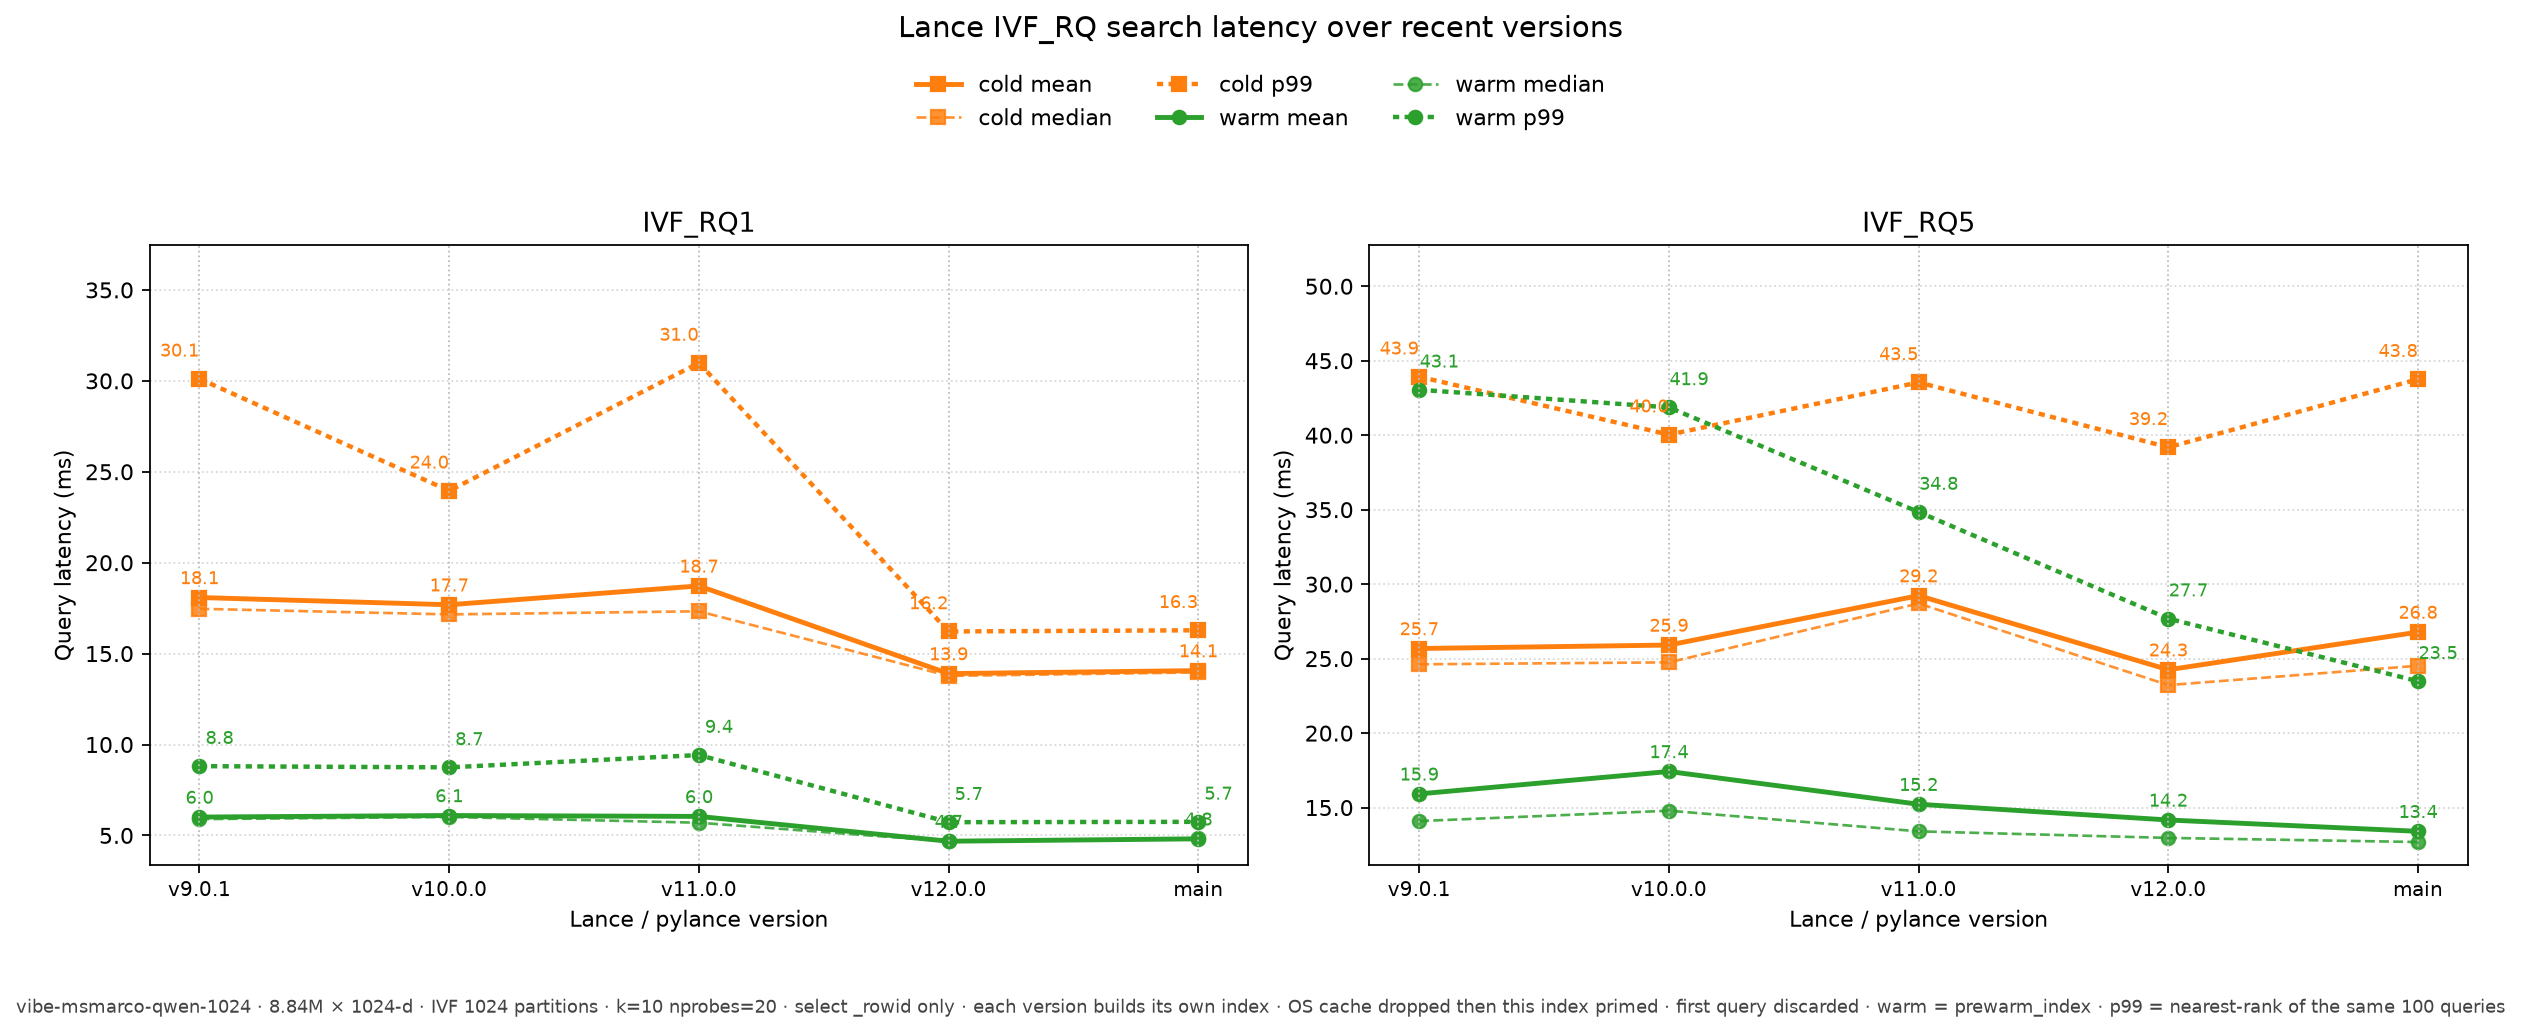
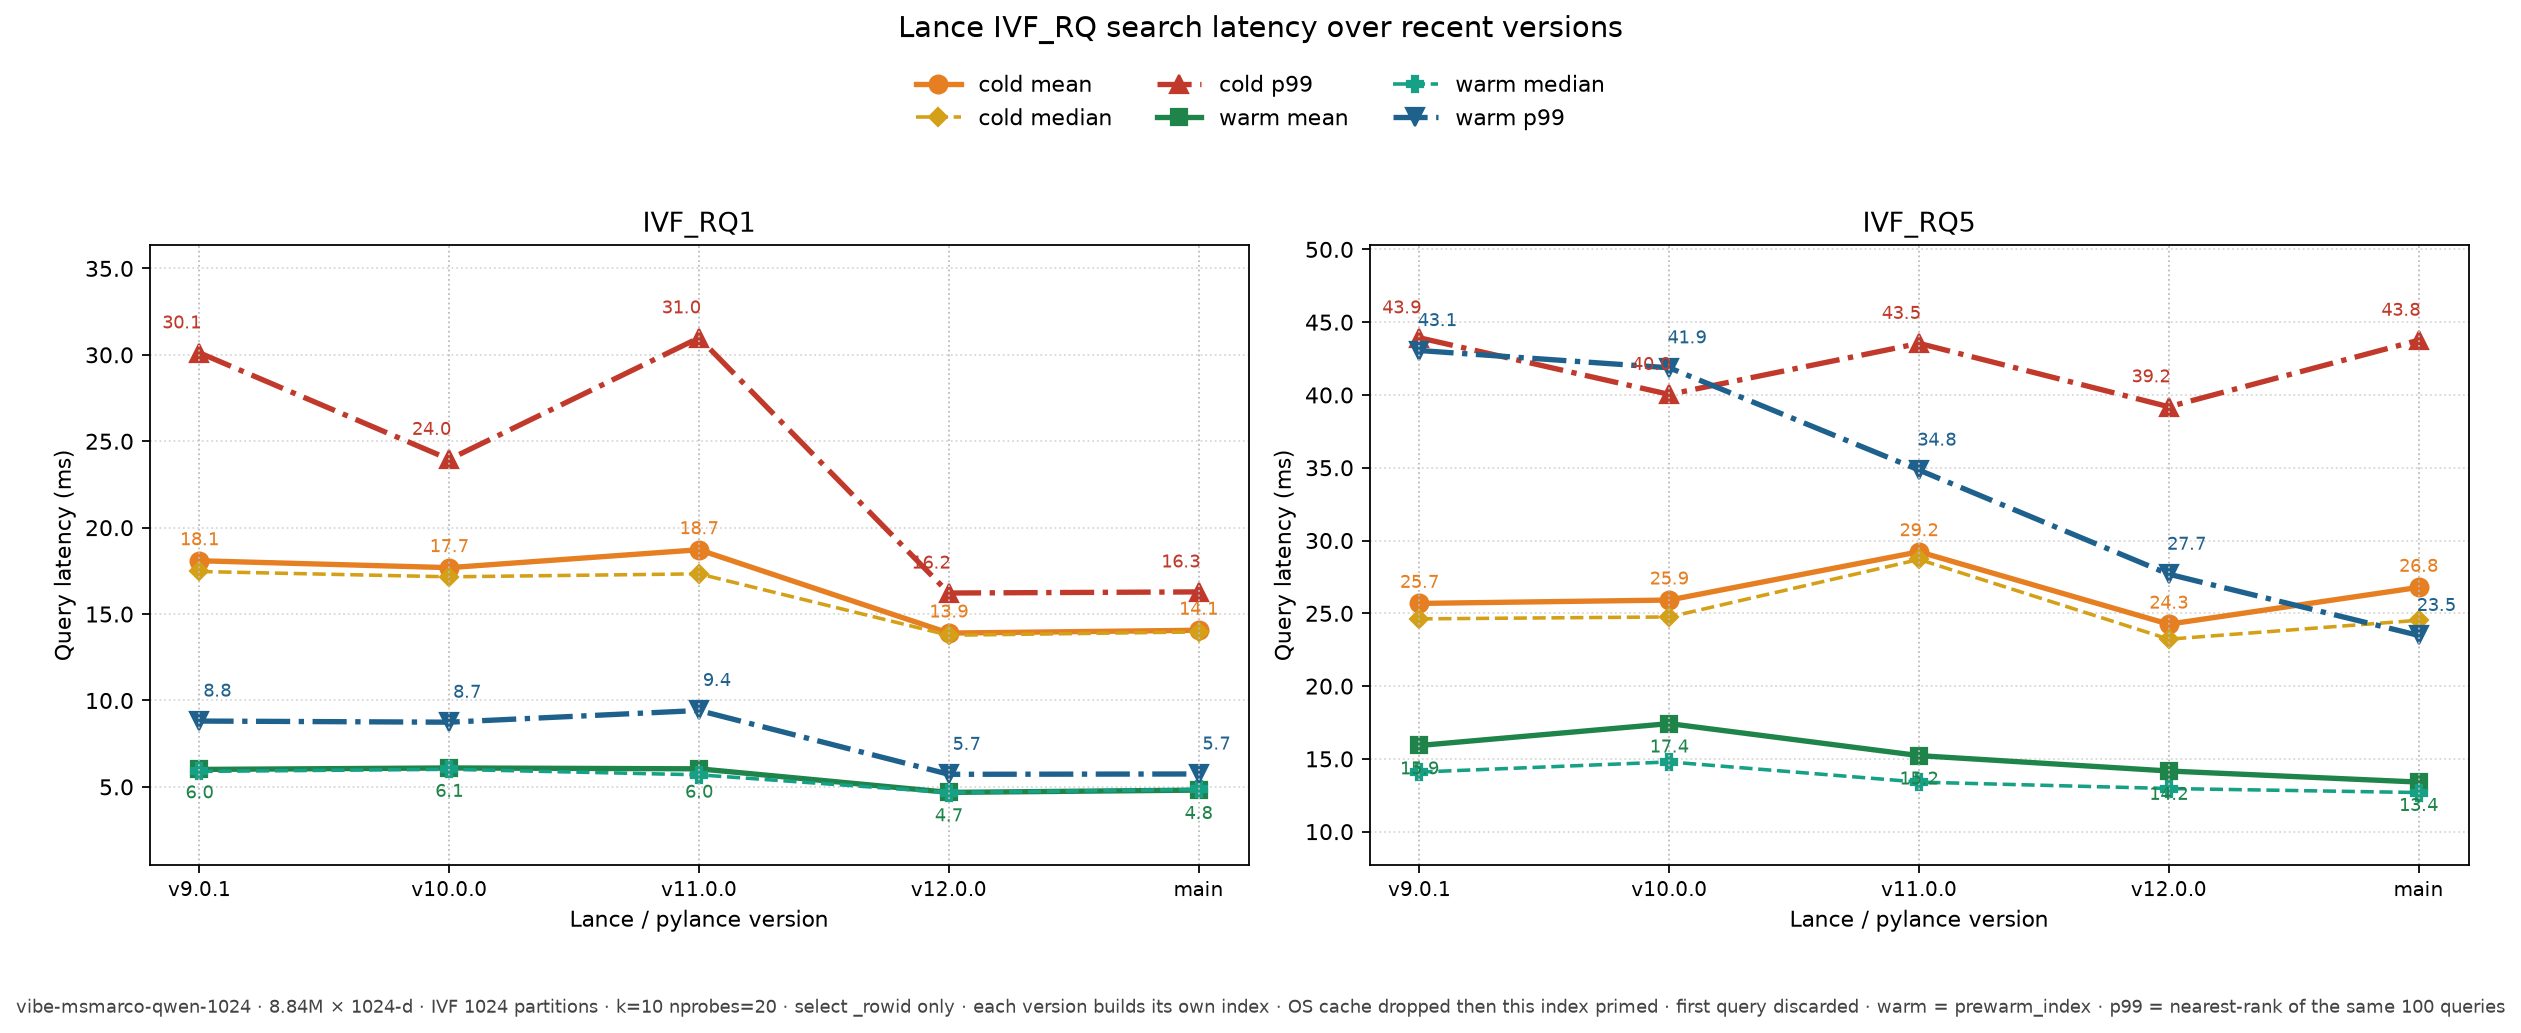
fix(bench): give each IVF_RQ latency series its own style
Mean, median, and p99 used the same cold/warm colors and only differed
by dash pattern, so the lines were hard to tell apart. Color, marker,
and linestyle now identify each series.

diff --git a/benchmarks/vibe-msmarco/plot.py b/benchmarks/vibe-msmarco/plot.py
@@ -17,8 +17,75 @@ from bench import nearest_rank
 
 
 VERSION_ORDER = ("v9.0.1", "v10.0.0", "v11.0.0", "v12.0.0")
-COLORS = {"warm": "#2ca02c", "cold": "#ff7f0e"}
-MARKERS = {"warm": "o", "cold": "s"}
+# One color + marker + dash per series so mean / median / p99 do not collapse.
+SERIES = (
+    {
+        "mode": "cold",
+        "key": "mean_ms",
+        "label": "cold mean",
+        "color": "#e67e22",
+        "marker": "o",
+        "linestyle": "-",
+        "linewidth": 2.4,
+        "markersize": 8,
+        "annotate": True,
+    },
+    {
+        "mode": "cold",
+        "key": "median_ms",
+        "label": "cold median",
+        "color": "#d4a017",
+        "marker": "D",
+        "linestyle": "--",
+        "linewidth": 1.6,
+        "markersize": 6,
+        "annotate": False,
+    },
+    {
+        "mode": "cold",
+        "key": "p99_ms",
+        "label": "cold p99",
+        "color": "#c0392b",
+        "marker": "^",
+        "linestyle": "-.",
+        "linewidth": 2.4,
+        "markersize": 8,
+        "annotate": True,
+    },
+    {
+        "mode": "warm",
+        "key": "mean_ms",
+        "label": "warm mean",
+        "color": "#1e8449",
+        "marker": "s",
+        "linestyle": "-",
+        "linewidth": 2.4,
+        "markersize": 7,
+        "annotate": True,
+    },
+    {
+        "mode": "warm",
+        "key": "median_ms",
+        "label": "warm median",
+        "color": "#16a085",
+        "marker": "P",
+        "linestyle": "--",
+        "linewidth": 1.6,
+        "markersize": 7,
+        "annotate": False,
+    },
+    {
+        "mode": "warm",
+        "key": "p99_ms",
+        "label": "warm p99",
+        "color": "#1f618d",
+        "marker": "v",
+        "linestyle": "-.",
+        "linewidth": 2.4,
+        "markersize": 8,
+        "annotate": True,
+    },
+)
 
 
 def _sort_key(label: str) -> tuple[int, str]:
@@ -74,10 +141,10 @@ def series_ms(row: dict, mode: str, key: str) -> float:
 
 
 ANNOTATE_OFFSET = {
-    ("cold", "mean_ms"): (0, 6),
-    ("warm", "mean_ms"): (0, 6),
-    ("cold", "p99_ms"): (-9, 10),
-    ("warm", "p99_ms"): (9, 10),
+    ("cold", "mean_ms"): (0, 7),
+    ("warm", "mean_ms"): (0, -13),
+    ("cold", "p99_ms"): (-8, 11),
+    ("warm", "p99_ms"): (8, 11),
 }
 
 
@@ -93,43 +160,37 @@ def _style_axis(ax, labels: list[str], title: str) -> None:
     ax.grid(axis="y", linestyle=":", alpha=0.5)
     ax.yaxis.set_major_formatter(ticker.FormatStrFormatter("%.1f"))
     ymin, ymax = ax.get_ylim()
-    ax.set_ylim(ymin, ymax * 1.16)
+    span = ymax - ymin
+    ax.set_ylim(ymin - span * 0.10, ymax + span * 0.14)
 
 
-def _plot_metric(
-    ax,
-    series: list[dict],
-    metrics: tuple[tuple[str, str, float, float, str], ...],
-    annotate: tuple[str, ...],
-) -> None:
-    labels = [axis_label(row["label"]) for row in series]
+def _plot_series(ax, rows: list[dict]) -> None:
+    labels = [axis_label(row["label"]) for row in rows]
     xs = list(range(len(labels)))
-    annotate_keys = set(annotate)
-    for mode in ("cold", "warm"):
-        for key, linestyle, linewidth, alpha, suffix in metrics:
-            values = [series_ms(row, mode, key) for row in series]
-            ax.plot(
-                xs,
-                values,
-                color=COLORS[mode],
-                marker=MARKERS[mode],
-                linewidth=linewidth,
-                linestyle=linestyle,
-                alpha=alpha,
-                label=f"{mode} {suffix}",
-            )
-            if key in annotate_keys:
-                offset = ANNOTATE_OFFSET.get((mode, key), (0, 7))
-                for x, value in zip(xs, values):
-                    ax.annotate(
-                        f"{value:.1f}",
-                        (x, value),
-                        textcoords="offset points",
-                        xytext=offset,
-                        ha="center",
-                        fontsize=8,
-                        color=COLORS[mode],
-                    )
+    for spec in SERIES:
+        values = [series_ms(row, spec["mode"], spec["key"]) for row in rows]
+        ax.plot(
+            xs,
+            values,
+            color=spec["color"],
+            marker=spec["marker"],
+            markersize=spec["markersize"],
+            linewidth=spec["linewidth"],
+            linestyle=spec["linestyle"],
+            label=spec["label"],
+        )
+        if spec["annotate"]:
+            offset = ANNOTATE_OFFSET.get((spec["mode"], spec["key"]), (0, 7))
+            for x, value in zip(xs, values):
+                ax.annotate(
+                    f"{value:.1f}",
+                    (x, value),
+                    textcoords="offset points",
+                    xytext=offset,
+                    ha="center",
+                    fontsize=8,
+                    color=spec["color"],
+                )
     _style_axis(ax, labels, ax.get_title())
 
 
@@ -142,19 +203,9 @@ def plot_results(rows: list[dict], out: Path, subtitle: str) -> None:
     if len(indexes) == 1:
         axes = [axes]
 
-    metrics = (
-        ("mean_ms", "-", 2.2, 1.0, "mean"),
-        ("median_ms", "--", 1.2, 0.85, "median"),
-        ("p99_ms", (0, (1.4, 1.2)), 2.0, 1.0, "p99"),
-    )
     for ax, index_name in zip(axes, indexes):
         ax.set_title(index_name)
-        _plot_metric(
-            ax,
-            [row for row in rows if row["index"] == index_name],
-            metrics,
-            ("mean_ms", "p99_ms"),
-        )
+        _plot_series(ax, [row for row in rows if row["index"] == index_name])
 
     handles, legend_labels = axes[0].get_legend_handles_labels()
     fig.legend(
